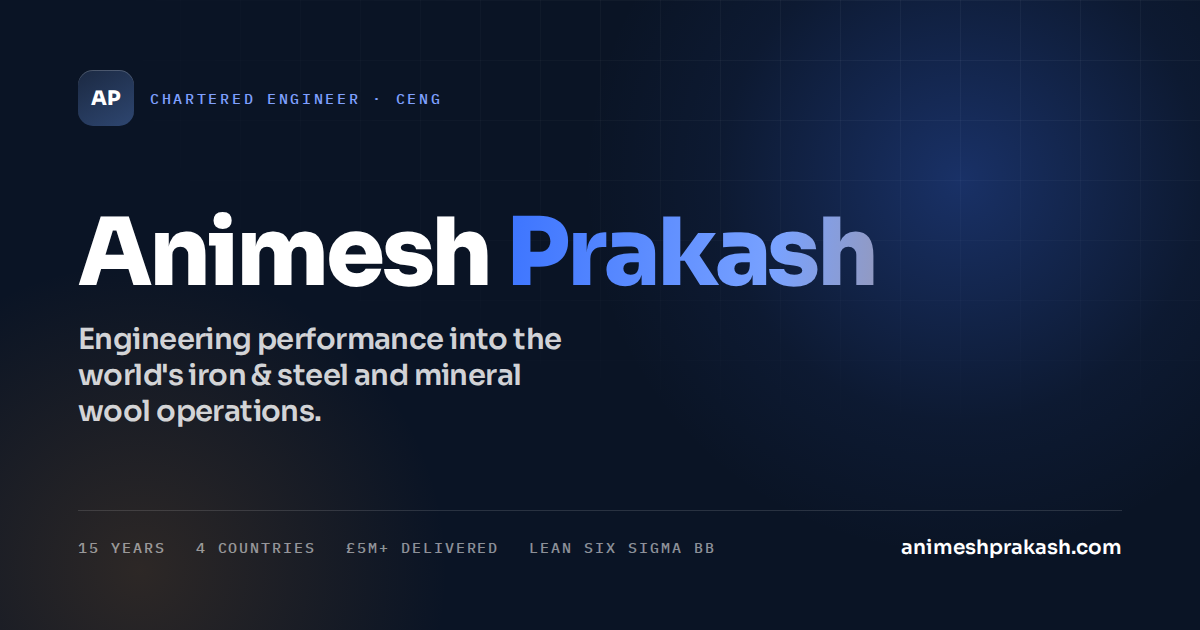
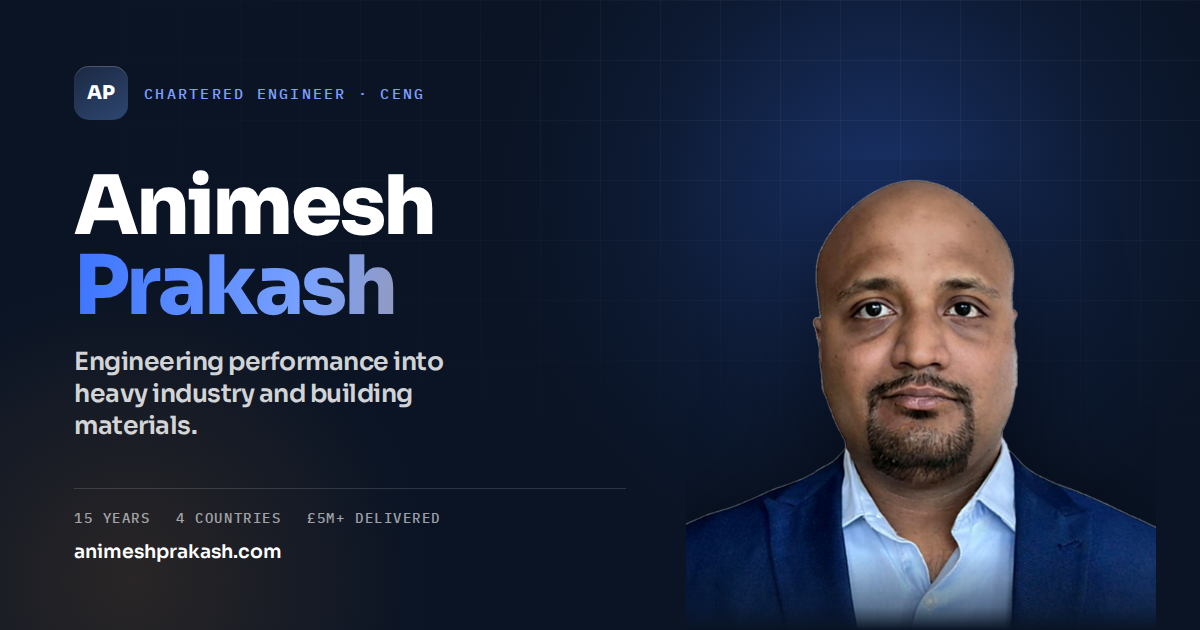
Add portrait to hero and share card; proofread pass on all copy

Changed region(s): [[0.0617, 0.2714, 0.9867, 0.9952], [0.0617, 0.8143, 0.4008, 0.9048], [0.0617, 0.0905, 0.37, 0.2111]]

diff --git a/index.html b/index.html
@@ -61,7 +61,7 @@
     "New product development", "Capital projects", "Factory Acceptance Testing", "QHSE"
   ],
   "description": "Chartered Engineer and Lean Six Sigma Black Belt with fifteen years across India, the UAE, the United Kingdom and France, delivering over £5M in measurable plant value in iron & steel and mineral wool manufacturing.",
-  "image": "https://animeshprakash.com/og-image.png",
+  "image": "https://animeshprakash.com/portrait.webp",
   "seeks": { "@type": "Demand", "name": "General and executive management, board and advisory appointments in global manufacturing" }
 }
 </script>
@@ -266,6 +266,30 @@ p:last-child{margin-bottom:0;}
 @keyframes float1{0%,100%{transform:translate3d(0,0,0) scale(1);}50%{transform:translate3d(2%,-4%,0) scale(1.07);}}
 @keyframes float2{0%,100%{transform:translate3d(0,0,0) scale(1);}50%{transform:translate3d(-3%,4%,0) scale(1.1);}}
 .hero .container{position:relative; z-index:2; padding-top:clamp(64px,10vw,116px); padding-bottom:clamp(56px,8vw,92px);}
+.hero-inner{display:grid; grid-template-columns:1fr; gap:clamp(28px,4vw,44px); align-items:center;}
+@media (min-width:980px){ .hero-inner{grid-template-columns:minmax(0,1.42fr) minmax(0,.58fr);} }
+@media (min-width:1280px){ .hero-inner{grid-template-columns:minmax(0,1.3fr) minmax(0,.7fr);} }
+.portrait-wrap{position:relative; justify-self:center; align-self:center; width:100%; display:none;}
+@media (min-width:980px){ .portrait-wrap{display:block;} }
+.portrait-wrap::before{
+  content:""; position:absolute; left:50%; bottom:6%; transform:translateX(-50%);
+  width:118%; max-width:440px; aspect-ratio:1; border-radius:50%;
+  background:radial-gradient(circle, rgba(23,80,224,.16) 0%, rgba(23,80,224,.05) 46%, transparent 68%);
+  filter:blur(4px); z-index:0;
+}
+.portrait{
+  position:relative; z-index:1; display:block; width:min(100%,330px); height:auto; margin:0 auto;
+  -webkit-mask-image:linear-gradient(to bottom,#000 0%,#000 76%,rgba(0,0,0,.55) 92%,transparent 100%);
+  mask-image:linear-gradient(to bottom,#000 0%,#000 76%,rgba(0,0,0,.55) 92%,transparent 100%);
+  filter:drop-shadow(0 26px 40px rgba(10,20,37,.16));
+}
+.avatar{
+  display:block; width:112px; height:112px; border-radius:50%; margin-bottom:24px;
+  object-fit:cover; object-position:50% 12%;
+  background:radial-gradient(circle at 50% 30%, #E8EFFB 0%, #F5F8FD 70%);
+  box-shadow:0 0 0 1px var(--line-2), 0 14px 30px -14px rgba(10,20,37,.35);
+}
+@media (min-width:980px){ .avatar{display:none;} }
 .hero h1{
   font-size:clamp(46px,9.2vw,104px); font-weight:800; letter-spacing:-.035em; line-height:.96;
 }
@@ -274,7 +298,7 @@ p:last-child{margin-bottom:0;}
 .hero h1 .ln:nth-child(2) > span{animation-delay:.09s;}
 @keyframes riseIn{to{transform:none;}}
 .hero h1 .accent{
-  background:linear-gradient(96deg,var(--blue) 0%,var(--blue-hi) 45%,var(--amber) 115%);
+  background:linear-gradient(96deg,var(--blue) 0%,var(--blue-hi) 62%,var(--amber) 155%);
   -webkit-background-clip:text; background-clip:text; color:transparent;
 }
 .hero-role{
@@ -283,7 +307,8 @@ p:last-child{margin-bottom:0;}
   font-size:clamp(19px,2.5vw,27px); line-height:1.3; color:var(--ink-2);
 }
 .hero-sub{margin-top:24px; max-width:58ch; color:var(--muted); font-size:clamp(17px,1.9vw,19.5px); line-height:1.6;}
-.hero-cta{display:flex; flex-wrap:wrap; gap:12px; margin-top:34px;}
+.hero-cta{display:flex; flex-wrap:wrap; gap:10px; margin-top:34px;}
+.hero .hero-cta .btn{padding:13px 19px; font-size:15px;}
 .hero-foot{
   display:flex; flex-wrap:wrap; gap:10px 24px; margin-top:36px;
   font-family:'IBM Plex Mono',monospace; font-size:13.5px; letter-spacing:.06em;
@@ -631,7 +656,9 @@ p:last-child{margin-bottom:0;}
 /* ---------- print / CV ---------- */
 @media print{
   @page{margin:14mm;}
-  .nav,.drawer,.progress,.totop,.hero-bg,.hero-cta,.contact-row,.copybtn,.burger,.orgstrip{display:none !important;}
+  .nav,.drawer,.progress,.totop,.hero-bg,.hero-cta,.contact-row,.copybtn,.burger,.orgstrip,.portrait-wrap{display:none !important;}
+  .avatar{display:block !important; width:78px; height:78px; box-shadow:none; border:1px solid #ccc;}
+  .hero-inner{display:block;}
   body{font-size:10.5pt; line-height:1.45; color:#000; background:#fff;}
   .section > .container{padding:14px 0 !important;}
   .container{max-width:none; padding:0;}
@@ -697,12 +724,15 @@ p:last-child{margin-bottom:0;}
     <div class="hero-glow b"></div>
   </div>
   <div class="container">
+   <div class="hero-inner">
+    <div>
+    <img class="avatar" src="avatar.webp" width="480" height="480" alt="Animesh Prakash" fetchpriority="high">
     <h1>
       <span class="ln"><span>Animesh</span></span>
       <span class="ln"><span class="accent">Prakash</span></span>
     </h1>
     <p class="hero-role">Engineering performance into heavy industry (iron &amp; steel) and building materials (mineral wool operations).</p>
-    <p class="hero-sub">Fifteen years. Four countries. A Chartered Engineer and Lean Six Sigma Black Belt with &pound;5M+ in measurable plant value delivered &mdash; leading operations across India, the UAE and the United Kingdom, and now in France.</p>
+    <p class="hero-sub">Fifteen years. Four countries. A Chartered Engineer and Lean Six Sigma Black Belt with &pound;5M+ in measurable plant value delivered, leading operations across India, the UAE and the United Kingdom &mdash; and now in France.</p>
     <div class="hero-cta">
       <a class="btn btn-solid" href="#journey">Explore the record
         <svg viewBox="0 0 24 24" fill="none" stroke="currentColor" stroke-width="2" stroke-linecap="round" stroke-linejoin="round" aria-hidden="true"><path d="M12 5v14M19 12l-7 7-7-7"/></svg>
@@ -718,6 +748,11 @@ p:last-child{margin-bottom:0;}
       <span>Iron &amp; Steel</span><i>/</i>
       <span>Mineral Wool</span>
     </div>
+    </div>
+    <div class="portrait-wrap">
+      <img class="portrait" src="portrait.webp" width="800" height="1000" alt="Animesh Prakash, Chartered Engineer" fetchpriority="high">
+    </div>
+   </div>
   </div>
 </section>
 
@@ -759,7 +794,7 @@ p:last-child{margin-bottom:0;}
         <div class="node-body">
           <div class="node-place"><a href="https://www.google.com/maps/search/?api=1&amp;query=Varanasi%2C+India" target="_blank" rel="noopener">Varanasi</a> &amp; <a href="https://www.google.com/maps/search/?api=1&amp;query=Chennai%2C+India" target="_blank" rel="noopener">Chennai</a>, India</div>
           <h3 class="node-title">The Foundation</h3>
-          <p class="node-text">Born in Varanasi, in northern India, in 1990; began his schooling there, then moved to Chennai, in southern India, for college &mdash; a B.Tech in Chemical Engineering at Sathyabama University, graduating 2012 &mdash; the foundation for everything that followed.</p>
+          <p class="node-text">Born in Varanasi, in northern India, in 1990. Schooling began there, before a move to Chennai, in southern India, for college &mdash; a B.Tech in Chemical Engineering at Sathyabama University, graduating in 2012 &mdash; the foundation for everything that followed.</p>
         </div>
       </article>
 
@@ -769,7 +804,7 @@ p:last-child{margin-bottom:0;}
         <div class="node-body">
           <div class="node-place"><a href="https://www.google.com/maps/search/?api=1&amp;query=Kharagpur%2C+West+Bengal%2C+India" target="_blank" rel="noopener">West Bengal</a> &amp; <a href="https://www.google.com/maps/search/?api=1&amp;query=Jajpur%2C+Odisha%2C+India" target="_blank" rel="noopener">Odisha</a>, India</div>
           <h3 class="node-title">Blast Furnace Operations</h3>
-          <p class="node-text">Started as a Graduate Trainee at Rashmi Metaliks in West Bengal, moving through shift management, then to Visa Steel Limited in Odisha &mdash; five years of blast furnace operations and process control, leading a team of 70+ across 250m&sup3; and 215m&sup3; furnaces, and capped by a stint in the Director&rsquo;s office gaining techno-commercial exposure: procurement, supplier negotiation and cost analysis alongside the technical work.</p>
+          <p class="node-text">Started as a Graduate Trainee at Rashmi Metaliks in West Bengal, moved through shift management, then on to Visa Steel Limited in Odisha &mdash; five years of blast furnace operations and process control, leading a team of 70+ across 250m&sup3; and 215m&sup3; furnaces, and capped by a stint in the Director&rsquo;s office that added techno-commercial exposure: procurement, supplier negotiation and cost analysis alongside the technical work.</p>
         </div>
       </article>
 
@@ -809,7 +844,7 @@ p:last-child{margin-bottom:0;}
         <div class="node-body">
           <div class="node-place"><a href="https://www.google.com/maps/search/?api=1&amp;query=France" target="_blank" rel="noopener">France</a></div>
           <h3 class="node-title">Senior Process Engineer, Saint-Gobain</h3>
-          <p class="node-text">Now on Saint-Gobain&rsquo;s central team &mdash; delivering process support to factories globally and supporting R&amp;D, and leading greenfield and brownfield project work from design validation through Factory Acceptance Tests (FATs) &mdash; the fourth country, and the widest reach yet.</p>
+          <p class="node-text">Now on Saint-Gobain&rsquo;s central team &mdash; delivering process support to factories worldwide, supporting R&amp;D, and leading greenfield and brownfield project work from design validation through Factory Acceptance Tests (FATs) &mdash; the fourth country, and the widest reach yet.</p>
         </div>
       </article>
     </div>
@@ -933,7 +968,7 @@ p:last-child{margin-bottom:0;}
         <div class="exp-when">Mar 2025 &mdash; Present</div>
         <div>
           <b class="exp-org">Saint-Gobain</b>
-          <div class="exp-role">Senior Process Engineer, Central Team &mdash; process support to factories globally and support to R&amp;D; greenfield/brownfield design validation and Factory Acceptance Tests</div>
+          <div class="exp-role">Senior Process Engineer, Central Team &mdash; process support to factories worldwide and to R&amp;D; greenfield/brownfield design validation and Factory Acceptance Tests</div>
         </div>
         <div class="exp-flag">France</div>
       </div>
@@ -941,7 +976,7 @@ p:last-child{margin-bottom:0;}
         <div class="exp-when">Oct 2022 &mdash; 2025</div>
         <div>
           <b class="exp-org">ROCKWOOL UK &mdash; ROCKWOOL Group</b>
-          <div class="exp-role">Process Engineer, then Hot End Manager &amp; Process Lead (held together) &mdash; hot end area, CAPEX projects and process trials</div>
+          <div class="exp-role">Process Engineer, then Hot End Manager and Process Lead concurrently &mdash; hot end area, CAPEX projects and process trials</div>
         </div>
         <div class="exp-flag">Bridgend, Wales</div>
       </div>
@@ -1001,21 +1036,21 @@ p:last-child{margin-bottom:0;}
         <div class="xicon"><svg viewBox="0 0 24 24" aria-hidden="true"><path d="M7 3h10l-1.4 5.6a3 3 0 0 0 .5 2.6l2.4 3.2A3 3 0 0 1 16.1 19H7.9a3 3 0 0 1-2.4-4.6l2.4-3.2a3 3 0 0 0 .5-2.6L7 3Z"/><path d="M9.5 15h5"/></svg></div>
         <span class="xtag">Iron &amp; steel / blast furnace operations</span>
         <h3>Heavy Industry &amp; Blast Furnace Operations</h3>
-        <p>250m&sup3; and 215m&sup3; blast furnaces, raw material handling, refractory, and iron and steel process engineering, leading teams of 70+.</p>
+        <p>250m&sup3; and 215m&sup3; blast furnaces, raw material handling, refractory, and iron and steel process engineering &mdash; leading teams of 70+.</p>
       </article>
 
       <article class="xcard reveal" data-d="2">
         <div class="xicon"><svg viewBox="0 0 24 24" aria-hidden="true"><path d="M3 20h18"/><path d="M6 20v-6M11 20V8M16 20v-9M21 20V4"/></svg></div>
         <span class="xtag">Lean Six Sigma / continuous improvement</span>
         <h3>Continuous Improvement</h3>
-        <p>Lean Six Sigma Black Belt; OEE, 5S, World Class Manufacturing (WCM), root-cause and process variation analysis.</p>
+        <p>Lean Six Sigma Black Belt; OEE, 5S, World Class Manufacturing (WCM), root-cause and process-variation analysis.</p>
       </article>
 
       <article class="xcard reveal">
         <div class="xicon"><svg viewBox="0 0 24 24" aria-hidden="true"><path d="M3 15l4.5-5 3.5 3.5L15 7l6 8"/><path d="M3 20h18"/><circle cx="7.5" cy="10" r="1.2"/></svg></div>
         <span class="xtag">Process control / SPC</span>
         <h3>Process Control &amp; Data Analysis</h3>
-        <p>Process Control Monitoring (PCM), Statistical Process Control (SPC), A3 problem solving, Engineering Change Notes and technical benchmarking.</p>
+        <p>Process Control Monitoring (PCM), Statistical Process Control (SPC), A3 problem-solving, Engineering Change Notes and technical benchmarking.</p>
       </article>
 
       <article class="xcard reveal" data-d="1">
@@ -1050,7 +1085,7 @@ p:last-child{margin-bottom:0;}
         <div class="xicon"><svg viewBox="0 0 24 24" aria-hidden="true"><path d="M3 6h12M3 12h18M3 18h9"/><circle cx="19" cy="6" r="2"/><circle cx="16" cy="18" r="2"/></svg></div>
         <span class="xtag">Techno-commercial</span>
         <h3>Procurement &amp; Cost Analysis</h3>
-        <p>Supplier negotiation, technical procurement and cost analysis from a director&rsquo;s-office posting &mdash; the commercial half of engineering decisions.</p>
+        <p>Supplier negotiation, technical procurement and cost analysis from a posting in the director&rsquo;s office &mdash; the commercial half of engineering decisions.</p>
       </article>
     </div>
 
@@ -1060,13 +1095,14 @@ p:last-child{margin-bottom:0;}
         <h3>B.Tech, Chemical Engineering</h3>
         <div class="sub">Sathyabama University, Chennai &middot; 2012</div>
         <div class="chips">
-          <span class="chip">Chemical Engineering</span>
+          <span class="chip">Class of 2012</span>
+          <span class="chip">Chennai, India</span>
         </div>
       </div>
       <div class="credbox reveal" data-d="1">
         <span class="eyebrow">Certifications &amp; standards</span>
         <h3>Chartered Engineer (CEng)</h3>
-        <div class="sub">Plus Lean Six Sigma at Black and Green Belt level, and working command of the core management-system standards.</div>
+        <div class="sub">With Lean Six Sigma at Black and Green Belt level, and a working command of the core management-system standards.</div>
         <div class="chips">
           <span class="chip">Lean Six Sigma Black Belt</span>
           <span class="chip">Lean Six Sigma Green Belt</span>
@@ -1096,7 +1132,7 @@ p:last-child{margin-bottom:0;}
       </div>
       <ol class="ladder reveal" data-d="1">
         <li><b>Technical Depth</b><span>Blast furnace and mineral wool process engineering, hands-on.</span></li>
-        <li><b>People Leadership</b><span>Shift teams to a 180+ member plant organisation.</span></li>
+        <li><b>People Leadership</b><span>From shift teams to a 180+ member plant organisation.</span></li>
         <li><b>Multi-Site Scope</b><span>Three UK lines, then central support across continents.</span></li>
         <li><b>Commercial Edge</b><span>Procurement, negotiation and cost analysis alongside the engineering.</span></li>
         <li><b>Next: P&amp;L Ownership</b><span>General management of a plant, region or business unit.</span></li>
@@ -1113,9 +1149,9 @@ p:last-child{margin-bottom:0;}
     </div>
     <div class="board-grid">
       <div class="reveal">
-        <p class="lede" style="color:rgba(255,255,255,.88);">Fifteen years leading heavy industry and building-materials operations across four countries built the judgment boards and advisory mandates depend on &mdash; in operations, risk, continuous improvement and cross-border strategy.</p>
+        <p class="lede" style="color:rgba(255,255,255,.88);">Fifteen years leading heavy industry and building-materials operations across four countries built the kind of judgment that boards and advisory mandates depend on &mdash; in operations, risk, continuous improvement and cross-border strategy.</p>
         <p style="margin-top:18px;">The ambition now is to put that experience to work beyond the plant floor: a seat at the board table, and advising industrial businesses on the problems he has spent a career solving. He is also building a family-led consulting group, and would welcome non-profit board service where engineering and education meet.</p>
-        <p style="margin-top:14px;">Conversations are open on all of it.</p>
+        <p style="margin-top:14px;">Conversations are welcome on all of it.</p>
         <div class="hero-cta" style="margin-top:28px;">
           <a class="btn btn-light" href="mailto:contact@animeshprakash.com?subject=Board%20or%20advisory%20enquiry">Start a conversation</a>
         </div>
@@ -1126,7 +1162,7 @@ p:last-child{margin-bottom:0;}
           <li><svg viewBox="0 0 24 24" stroke-linecap="round" stroke-linejoin="round" aria-hidden="true"><path d="M12 3l7.5 3v6c0 4.2-3 7.6-7.5 9-4.5-1.4-7.5-4.8-7.5-9V6L12 3Z"/></svg><div><b>Board Seats &mdash; Executive &amp; Non-Executive</b><em>Operations, manufacturing performance and risk oversight.</em></div></li>
           <li><svg viewBox="0 0 24 24" stroke-linecap="round" stroke-linejoin="round" aria-hidden="true"><path d="M12 3l7.5 3v6c0 4.2-3 7.6-7.5 9-4.5-1.4-7.5-4.8-7.5-9V6L12 3Z"/></svg><div><b>Board Chairmanship</b><em>Governance and strategic direction for industrial businesses.</em></div></li>
           <li><svg viewBox="0 0 24 24" stroke-linecap="round" stroke-linejoin="round" aria-hidden="true"><path d="M12 3l7.5 3v6c0 4.2-3 7.6-7.5 9-4.5-1.4-7.5-4.8-7.5-9V6L12 3Z"/></svg><div><b>Advising Industrial Businesses</b><em>Building materials, plant equipment and process turnaround.</em></div></li>
-          <li><svg viewBox="0 0 24 24" stroke-linecap="round" stroke-linejoin="round" aria-hidden="true"><path d="M12 3l7.5 3v6c0 4.2-3 7.6-7.5 9-4.5-1.4-7.5-4.8-7.5-9V6L12 3Z"/></svg><div><b>A Family-Led Consulting Group</b><em>Building-materials solutions, equipment and executive search &mdash; in build.</em></div></li>
+          <li><svg viewBox="0 0 24 24" stroke-linecap="round" stroke-linejoin="round" aria-hidden="true"><path d="M12 3l7.5 3v6c0 4.2-3 7.6-7.5 9-4.5-1.4-7.5-4.8-7.5-9V6L12 3Z"/></svg><div><b>A Family-Led Consulting Group</b><em>Building-materials solutions, equipment and executive search &mdash; currently being built.</em></div></li>
           <li><svg viewBox="0 0 24 24" stroke-linecap="round" stroke-linejoin="round" aria-hidden="true"><path d="M12 3l7.5 3v6c0 4.2-3 7.6-7.5 9-4.5-1.4-7.5-4.8-7.5-9V6L12 3Z"/></svg><div><b>Non-Profit Board Service</b><em>Education, engineering skills and community initiatives.</em></div></li>
         </ul>
       </div>

diff --git a/404.html b/404.html
@@ -28,7 +28,7 @@
   <div class="wrap">
     <div class="code">Error 404</div>
     <h1>Page not found</h1>
-    <p>That page doesn't exist — but the rest of the story does.</p>
+    <p>That page doesn&rsquo;t exist — but the rest of the story does.</p>
     <a href="/">Back to animeshprakash.com</a>
   </div>
 </body>
